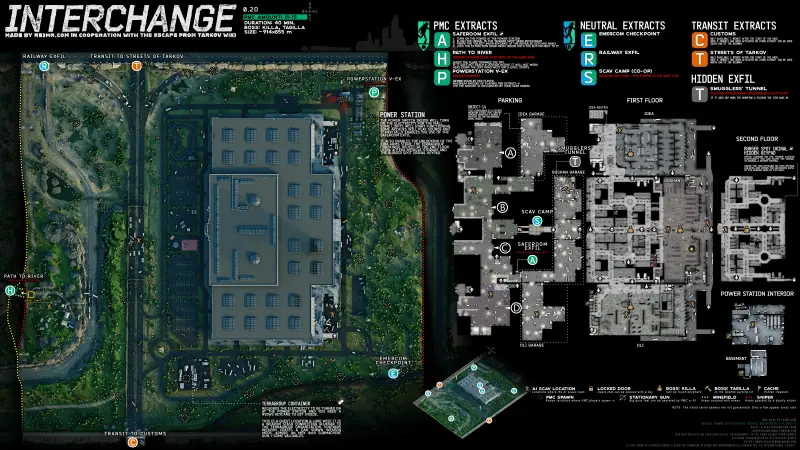
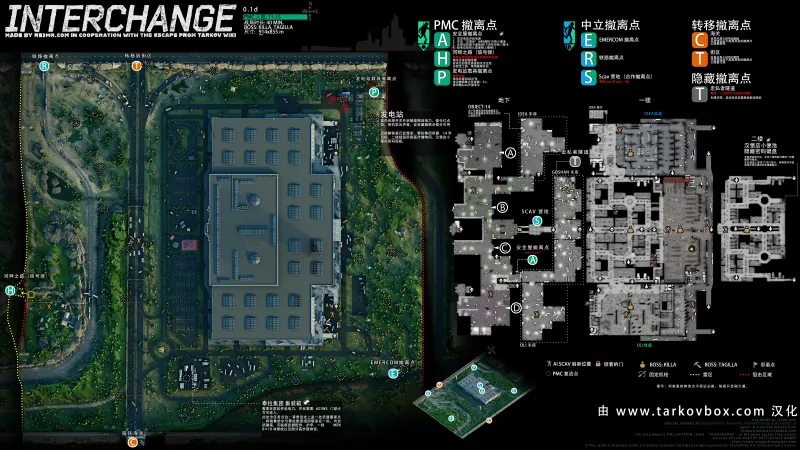
feat(maps): 上线中文地图与封面切换交互
- 将可用地图收敛为 TarkovBox 已汉化版本并替换对应高清资源

- 增加官方地图封面，悬停时以横向推轨展示中文地图缩略图

- 补充地图素材来源与设置页署名说明

- 删除未提供可靠中文版本的附属地图资源

diff --git a/tarkov-tactical-board-client/src/pages/HomePage.tsx b/tarkov-tactical-board-client/src/pages/HomePage.tsx
@@ -440,6 +440,7 @@ export function HomePage({
               {mapPresets.map((preset, index) => {
                   const selected = preset.id === selectedMapId
                   const bannerSrc = getMapAssetUrl(preset.bannerFileName)
+                  const coverSrc = getMapAssetUrl(preset.coverFileName)
                   const creating = creatingMapId === String(preset.id)
 
                   return (
@@ -449,10 +450,10 @@ export function HomePage({
                       initial={prefersReducedMotion ? { opacity: 0 } : { opacity: 0, y: 12 }}
                       animate={{ opacity: 1, y: 0 }}
                       transition={{ duration: 0.28, delay: prefersReducedMotion ? 0 : index * 0.025, ease: motionEase }}
-                      whileHover={prefersReducedMotion ? undefined : { y: -3 }}
                       onClick={() => setSelectedMapId(preset.id)}
                       onDoubleClick={() => void createInstance(preset)}
                       aria-pressed={selected}
+                      className="map-card"
                       style={{
                         minWidth: 0,
                         minHeight: 210,
@@ -467,19 +468,34 @@ export function HomePage({
                         boxShadow: selected ? '0 0 0 1px rgba(215, 185, 119, 0.2)' : 'none',
                       }}
                     >
-                      <Box
-                        sx={{
-                          position: 'absolute',
-                          inset: 0,
-                          backgroundImage: bannerSrc
-                            ? `linear-gradient(180deg, rgba(3,7,10,0.04) 28%, rgba(3,7,10,0.92) 100%), url(${bannerSrc})`
-                            : 'linear-gradient(145deg, #202b33, #0a1015)',
-                          backgroundSize: 'cover',
-                          backgroundPosition: 'center',
-                          transition: 'transform 420ms var(--motion-ease-out), filter 220ms var(--motion-ease-out)',
-                          filter: selected ? 'saturate(1.04) brightness(1.05)' : 'saturate(0.82) brightness(0.92)',
-                        }}
-                      />
+                      <Box className="map-card__track">
+                        <Box
+                          className="map-card__cover"
+                          sx={{
+                            flex: '0 0 50%',
+                            height: '100%',
+                            backgroundImage: coverSrc
+                              ? `linear-gradient(180deg, rgba(3,7,10,0.04) 28%, rgba(3,7,10,0.92) 100%), url(${coverSrc})`
+                              : 'linear-gradient(145deg, #202b33, #0a1015)',
+                            backgroundSize: 'cover',
+                            backgroundPosition: 'center',
+                            filter: selected ? 'saturate(1.04) brightness(1.05)' : 'saturate(0.82) brightness(0.92)',
+                          }}
+                        />
+                        <Box
+                          className="map-card__map"
+                          sx={{
+                            flex: '0 0 50%',
+                            height: '100%',
+                            backgroundImage: bannerSrc
+                              ? `linear-gradient(180deg, rgba(3,7,10,0.04) 28%, rgba(3,7,10,0.92) 100%), url(${bannerSrc})`
+                              : 'linear-gradient(145deg, #202b33, #0a1015)',
+                            backgroundSize: 'cover',
+                            backgroundPosition: 'center',
+                            filter: selected ? 'saturate(1.04) brightness(1.05)' : 'saturate(0.88) brightness(0.94)',
+                          }}
+                        />
+                      </Box>
                       <Box
                         sx={{
                           position: 'absolute',

diff --git a/tarkov-tactical-board-client/src/constants/maps.ts b/tarkov-tactical-board-client/src/constants/maps.ts
@@ -4,6 +4,7 @@ export interface TarkovMapPreset {
   nameZh: string
   nameEn: string
   sortOrder: number
+  coverFileName: string
   bannerFileName: string
   mapFileName: string
 }
@@ -13,12 +14,14 @@ const createMapPreset = (
   slug: string,
   nameZh: string,
   nameEn: string,
+  coverSlug = slug,
 ): TarkovMapPreset => ({
   id,
   slug,
   nameZh,
   nameEn,
   sortOrder: id,
+  coverFileName: `covers/${coverSlug}.webp`,
   bannerFileName: `${slug}-thumb.webp`,
   mapFileName: `${slug}.webp`,
 })
@@ -27,24 +30,17 @@ export const TARKOV_MAP_PRESETS: TarkovMapPreset[] = [
   createMapPreset(1, 'ground-zero', '中心区', 'Ground Zero'),
   createMapPreset(2, 'factory', '工厂', 'Factory'),
   createMapPreset(3, 'customs', '海关', 'Customs'),
-  createMapPreset(4, 'customs-dorms', '海关宿舍楼', 'Customs Dorms'),
+  createMapPreset(4, 'customs-dorms', '海关宿舍楼', 'Customs Dorms', 'customs'),
   createMapPreset(5, 'woods', '森林', 'Woods'),
-  createMapPreset(7, 'woods-train-depot', '森林火车站', 'Woods Train Depot'),
+  createMapPreset(7, 'woods-train-depot', '森林火车站', 'Woods Train Depot', 'woods'),
   createMapPreset(8, 'shoreline', '海岸线', 'Shoreline'),
-  createMapPreset(9, 'shoreline-resort', '海岸线疗养院', 'Shoreline Resort'),
+  createMapPreset(9, 'shoreline-resort', '海岸线疗养院', 'Shoreline Resort', 'shoreline'),
   createMapPreset(10, 'interchange', '立交桥', 'Interchange'),
-  createMapPreset(11, 'interchange-mall-interior', '立交桥商场内部', 'Interchange Mall Interior'),
   createMapPreset(12, 'reserve', '储备站', 'Reserve'),
-  createMapPreset(13, 'reserve-tunnels-2d', '储备站地下通道（2D）', 'Reserve Tunnels (2D)'),
-  createMapPreset(14, 'reserve-tunnels-3d', '储备站地下通道（3D）', 'Reserve Tunnels (3D)'),
-  createMapPreset(15, 'lighthouse-vertical', '灯塔（垂直）', 'Lighthouse (Vertical)'),
-  createMapPreset(16, 'lighthouse-isometric', '灯塔（等轴）', 'Lighthouse (Isometric)'),
+  createMapPreset(15, 'lighthouse-vertical', '灯塔（垂直）', 'Lighthouse (Vertical)', 'lighthouse'),
   createMapPreset(17, 'streets-of-tarkov', '塔科夫街区', 'Streets of Tarkov'),
-  createMapPreset(18, 'streets-lexos-minefield', '街区 LexOs 雷区', 'Streets LexOs Minefield'),
-  createMapPreset(19, 'streets-cache-map', '街区物资点地图', 'Streets Cache Map'),
   createMapPreset(20, 'labyrinth', '迷宫', 'The Labyrinth'),
   createMapPreset(21, 'terminal', '码头', 'Terminal'),
-  createMapPreset(22, 'transit', '地图转移点', 'Transit'),
   createMapPreset(23, 'icebreaker', '破冰船', 'Icebreaker'),
 ]
 

diff --git a/tarkov-tactical-board-client/src/i18n/resources.ts b/tarkov-tactical-board-client/src/i18n/resources.ts
@@ -22,6 +22,8 @@ export const resources = {
         aboutTitle: '关于本项目',
         aboutDisclaimer:
           '本项目是独立开发的非官方社区工具，与 Battlestate Games 或 Escape from Tarkov 官方不存在隶属、授权或背书关系。游戏名称、地图名称、商标及相关素材的权利归各自权利人所有。',
+        aboutMapCredits:
+          '仅内置 TarkovBox 已提供汉化版本的地图；原图由 RE3MR 基于 CC BY-NC-SA 4.0 发布，并保留图内署名。',
         updateTitle: '软件更新',
         updateHint: '桌面客户端可在此检查并安装新版本。',
         updateCheck: '检查更新',
@@ -192,6 +194,8 @@ export const resources = {
         aboutTitle: 'About This Project',
         aboutDisclaimer:
           'This independent, unofficial community project is not affiliated with, authorized by, or endorsed by Battlestate Games or Escape from Tarkov. Game names, map names, trademarks, and related assets belong to their respective owners.',
+        aboutMapCredits:
+          'Only maps localized by TarkovBox are bundled. Original maps are provided by RE3MR under CC BY-NC-SA 4.0, with in-image credits preserved.',
         updateTitle: 'Software Update',
         updateHint: 'Check for and install new desktop client versions here.',
         updateCheck: 'Check for updates',

diff --git a/tarkov-tactical-board-client/src/index.css b/tarkov-tactical-board-client/src/index.css
@@ -67,6 +67,30 @@ button:disabled {
   transform: translateY(-2px);
 }
 
+.map-card__track {
+  position: absolute;
+  inset: 0;
+  display: flex;
+  width: 200%;
+  transform: translateX(0);
+  transition: transform 520ms var(--motion-ease-out);
+  will-change: transform;
+}
+
+.map-card__map {
+  box-shadow: inset 1px 0 rgba(255, 255, 255, 0.34);
+}
+
+.map-card:focus-visible .map-card__track {
+  transform: translateX(-25%);
+}
+
+@media (hover: hover) and (pointer: fine) {
+  .map-card:hover .map-card__track {
+    transform: translateX(-25%);
+  }
+}
+
 .status-beacon {
   position: relative;
   display: inline-flex;

diff --git a/tarkov-tactical-board-client/src/components/ApiSettingsDialog.tsx b/tarkov-tactical-board-client/src/components/ApiSettingsDialog.tsx
@@ -126,6 +126,9 @@ export function ApiSettingsDialog({ onClose, onOpenAdmin }: ApiSettingsDialogPro
             <Typography variant="caption" color="text.secondary">
               {t('settings.aboutDisclaimer')}
             </Typography>
+            <Typography variant="caption" color="text.secondary">
+              {t('settings.aboutMapCredits')}
+            </Typography>
             <Typography variant="caption" color="text.disabled">
               {t('home.copyrightTitle')}
             </Typography>
